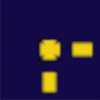
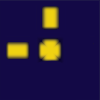
Obrada raskrsnica 1.deo

diff --git a/1.py b/1.py
@@ -1,4 +1,4 @@
-#!/bin/python
+#! /bin/python3
 import pygame as pg
 import numpy as np
 import random
@@ -9,7 +9,7 @@ import random
 # pg.mixer.music.play(-1)
 
 sirina = 1700
-visina = 900
+visina = 1000
 
 
 # CarDirection 0 je desno,1 je gore , 2 je dole
@@ -69,17 +69,23 @@ class Road(object):  # klasa za puteve
         elif (smer == "dole"):
             self.image = pg.transform.rotate(self.image,180)
         elif (smer == "levo"):
-            self.image = pg.transform.rotate(self.image,270)
-        elif (smer == "desno"):
             self.image = pg.transform.rotate(self.image,90)
+        elif (smer == "desno"):
+            self.image = pg.transform.rotate(self.image,270)
 
 class Semafor(object):
     def __init__(self):
         self.x = 0
         self.y = 0
+        self.boja = "Red"
     
-    def draw(self,surface,boja):
-         pg.draw.circle(surface, pg.Color(boja), (self.x, self.y), 20)
+    def draw(self,surface):
+         pg.draw.circle(surface, pg.Color(self.boja), (self.x, self.y), 20)
+
+    def promeni_boju(self):
+        if self.boja == "Green":
+            self.boja = "Red" 
+        else: self.boja = "Green"
 
 
 def osvezi_lokacije(aindx,CarLoc):  # Prolazi kroz sve aute i markira polja na kojima se nalaze kao zauzeta 
@@ -88,9 +94,59 @@ def osvezi_lokacije(aindx,CarLoc):  # Prolazi kroz sve aute i markira polja na k
             CarLoc[i][y]=0
     for index in range(0,aindx):
         CarLoc[CarArr[index].y // 100][CarArr[index].x // 100] = 1
-#    for index in br_semafora:#Menjamo polje na jedan samo ako je boja crvena
+#    for index in br_semafora:#Menjamo polje na jedan samo ako je boja crvena plus semafor moze da se promeni samo ako je slobodno polje
 
-
+def obradi_raskrsnice(matrica,obradi_rotacije):
+    for i in range(0,7):
+        for y in range(0,15):
+            if(matrica[i][y]>2): break
+            if(i == 0):
+                 up = 0
+            else: 
+                up = matrica[i-1][y]
+            if(i == 7):
+                down = 0
+            else: 
+                down = matrica[i+1][y]
+            if(y == 0):
+                left = 0
+            else:
+                left = matrica[i][y-1]
+            if(y == 15):
+                right = 0
+            else:
+                right = matrica[i][y+1]
+            if(up == 2 and down == 2 and left == 1 and right == 1):
+                matrica[i][y] = 4
+            elif(up >= 2 and left>0 and right>0):
+                matrica[i][y] = 5
+            elif(down >= 2 and left>0 and right>0):
+                matrica[i][y] = 5
+                if(obradi_rotacije):
+                    RoadObj[i][y].rotiraj("dole")
+            elif(up >= 2 and down >= 2 and left>0 ):
+                matrica[i][y] = 5
+                if(obradi_rotacije):
+                    RoadObj[i][y].rotiraj("levo")
+            elif(up >= 2 and down >= 2 and right>0):
+                matrica[i][y] = 5
+                if(obradi_rotacije):
+                    RoadObj[i][y].rotiraj("desno")
+            elif(up == 2 and left and matrica[i][y] == 1):
+                matrica[i][y] = 3
+            elif(up == 2 and right and matrica[i][y] == 1):
+                matrica[i][y] = 3
+                if(obradi_rotacije):
+                    RoadObj[i][y].rotiraj("desno")
+            elif(down == 2 and left and matrica[i][y] == 1):
+                matrica[i][y] = 3
+                if(obradi_rotacije):
+                    RoadObj[i][y].rotiraj("levo")
+            elif(down == 2 and right and matrica[i][y] == 1):
+                matrica[i][y] = 3
+                if(obradi_rotacije):
+                    RoadObj[i][y].rotiraj("dole")
+            
 
 semafor = np.array([450, 140, 450, 440, 250, 300, 300, 350])#ovaj  array ce postati niz klasa nakon ubacivanja raskrsnica
 boje = ["Red", "Red", "Red", "Red"]
@@ -110,13 +166,14 @@ pg.display.set_caption("Traffic Jam Simulation")
 RoadArr = [
     [1, 1, 1, 1, 1, 1, 1, 1, 1, 1, 1, 1, 1, 1, 1, 1],
     [0, 0, 0, 2, 0, 0, 0, 2, 0, 2, 0, 0, 2, 0, 0, 0],
-    [0, 0, 0, 2, 0, 0, 0, 2, 1, 3, 0, 0, 2, 0, 0, 0],
-    [1, 1, 1, 1, 1, 1, 1, 4, 0, 0, 0, 0, 2, 0, 0, 0],
+    [0, 0, 0, 2, 0, 0, 0, 2, 1, 1, 0, 0, 2, 0, 0, 0],
+    [1, 1, 1, 1, 1, 1, 1, 2, 0, 0, 0, 0, 2, 0, 0, 0],
     [0, 0, 0, 2, 0, 2, 0, 2, 0, 0, 0, 0, 2, 0, 0, 0],
-    [0, 0, 0, 2, 0, 1, 1, 5, 1, 1, 1, 1, 1, 1, 1, 1],
+    [0, 0, 0, 2, 0, 1, 1, 1, 1, 1, 1, 1, 1, 1, 1, 1],
     [1, 1, 1, 1, 1, 2, 0, 0, 2, 0, 0, 0, 2, 0, 0, 0],
     [0, 0, 0, 2, 0, 0, 0, 0, 2, 0, 0, 0, 2, 0, 0, 0],
 ]
+obradi_raskrsnice(RoadArr,0)
 
 ##
 RoadObj = np.zeros(shape=(8, 16), dtype=Road)  # Objekti puteva
@@ -130,7 +187,7 @@ CarDirection = np.zeros(shape=(br_car + 1), dtype=int)  # smer kretanja automobi
 semafori = np.zeros(shape=(8,17),dtype=Semafor)
 
 auto_index = 0  # ovo treba promenu kako bi uvek bio ispunjen broj automobila br_car, samo se generisu na random lokacijama,
-for i in range(0, 7):
+for i in range(0, 8):
     for y in range(0, 15):
         if RoadArr[i][y] == 1:
             RoadObj[i][y] = Road(1)
@@ -160,7 +217,7 @@ for i in range(0, 7):
             RoadObj[i][y] = Road(5) 
             RoadObj[i][y].y = i * 100 + 100
             RoadObj[i][y].x = y * 100 + 100
-
+obradi_raskrsnice(RoadArr,1)
 
 boja = 0
 Run = True
@@ -169,7 +226,7 @@ random.seed(23617282344)#PRNG eksperiment
 while Run:
     ciklus += 1
     surface.fill((0, 0, 255))
-    for i in range(0, 7):
+    for i in range(0, 8):
         for y in range(0, 15):
             if RoadArr[i][y] != 0:
                 RoadObj[i][y].draw(surface)
